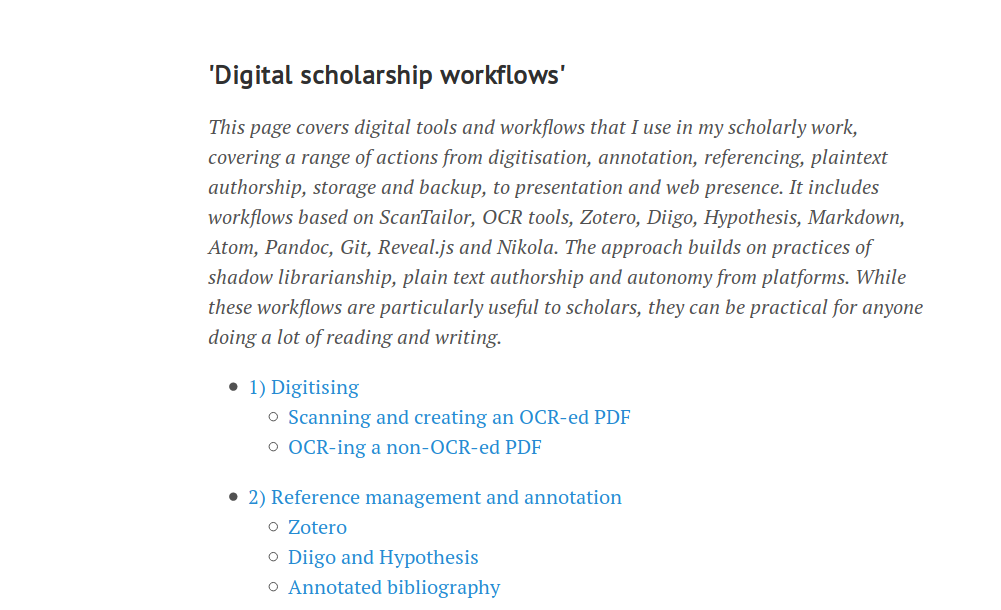
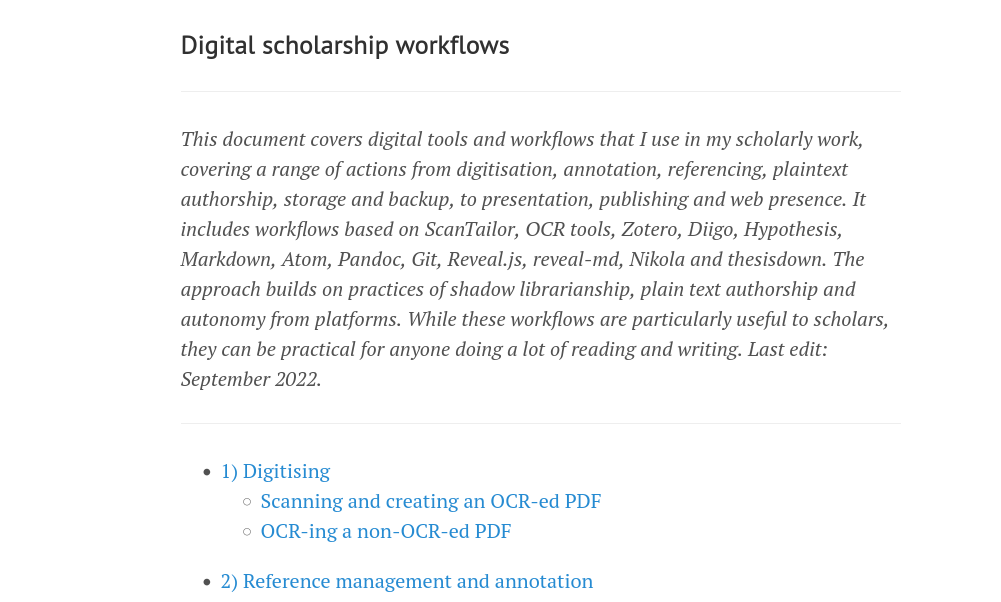
sub, 26.11.2022.  11:54:15 CET

diff --git a/en/workflows/index.html b/en/workflows/index.html
@@ -2,9 +2,9 @@
 <html prefix="" lang="en">
 <head>
 <meta charset="utf-8">
-<meta name="description" content="Overview of digital tools and workflows I use in my scholarly work, covering a range of actions from digitisation, annotation, referencing, plaintext authorship, storage and backup, to presentation and web presence. It includes workflows based on ScanTailor, OCR tools, Zotero, Diigo, Hypothesis, Markdown, Atom, Pandoc, Git, Reveal.js, reveal-md and Nikola.">
+<meta name="description" content="Overview of digital tools and workflows I use in my scholarly work, covering a range of actions from digitisation, annotation, referencing, plaintext authorship, storage and backup, to presentation and web presence. It includes workflows based on ScanTailor, OCR tools, Zotero, Diigo, Hypothesis, Markdown, Atom, Pandoc, Git, Reveal.js, reveal-md, Nikola and thesisdown.">
 <meta name="viewport" content="width=device-width">
-<title>'Digital scholarship workflows' | Tomislav Medak</title>
+<title>Digital scholarship workflows | Tomislav Medak</title>
 <link href="../../assets/css/all.css" rel="stylesheet" type="text/css">
 <link rel="stylesheet" href="//fonts.googleapis.com/css?family=PT+Serif:400,400italic,700%7CPT+Sans:400">
 <link rel="alternate" type="application/rss+xml" title="RSS" href="../../rss.xml">
@@ -12,7 +12,7 @@
 <link rel="icon" href="../../favicon.ico" sizes="96x96">
 <!--[if lt IE 9]><script src="../../assets/js/html5.js"></script><![endif]--><meta name="author" content="Tomislav Medak">
 <meta property="og:site_name" content="Tomislav Medak">
-<meta property="og:title" content="'Digital scholarship workflows'">
+<meta property="og:title" content="Digital scholarship workflows">
 <meta property="og:url" content="http://tom.medak.click/en/workflows/">
 <meta property="og:description" content="Overview of digital tools and workflows I use in my scholarly work, covering a range of actions from digitisation, annotation, referencing, plaintext authorship, storage and backup, to presentation an">
 <meta property="og:image" content="http://tom.medak.click/images/digital_scholarship.png">
@@ -64,7 +64,7 @@
 
       <div class="container content" id="content">
         
-<article class="post-text storypage" itemscope="itemscope" itemtype="http://schema.org/Article"><header><h1 class="post-title p-name entry-title" itemprop="headline name"><a href="." class="u-url">'Digital scholarship workflows'</a></h1>
+<article class="post-text storypage" itemscope="itemscope" itemtype="http://schema.org/Article"><header><h1 class="post-title p-name entry-title" itemprop="headline name"><a href="." class="u-url">Digital scholarship workflows</a></h1>
 
         
 
@@ -78,13 +78,16 @@
 
 
 <!--
-.. title: 'Digital scholarship workflows'
+.. title: Digital scholarship workflows
 .. slug: workflows
 .. author: Tomislav Medak
 .. date: 2019-07-22 19:52:05 UTC
 .. previewimage: /images/digital_scholarship.png
-.. description: Overview of digital tools and workflows I use in my scholarly work, covering a range of actions from digitisation, annotation, referencing, plaintext authorship, storage and backup, to presentation and web presence. It includes workflows based on ScanTailor, OCR tools, Zotero, Diigo, Hypothesis, Markdown, Atom, Pandoc, Git, Reveal.js, reveal-md and Nikola.
+.. description: Overview of digital tools and workflows I use in my scholarly work, covering a range of actions from digitisation, annotation, referencing, plaintext authorship, storage and backup, to presentation and web presence. It includes workflows based on ScanTailor, OCR tools, Zotero, Diigo, Hypothesis, Markdown, Atom, Pandoc, Git, Reveal.js, reveal-md, Nikola and thesisdown.
 -->
+<hr>
+<p><em>This document covers digital tools and workflows I use in my scholarly work, covering a range of actions from digitisation, annotation, referencing, plaintext authorship, storage and backup, to presentation, publishing and web presence. It includes workflows based on ScanTailor, OCR tools, Zotero, Diigo, Hypothesis, Markdown, Atom, Pandoc, Git, Reveal.js, reveal-md, Nikola and thesisdown. The approach builds on practices of shadow librarianship, plain text authorship and autonomy from platforms. While these workflows are particularly useful to scholars, they can be practical for anyone doing a lot of reading and writing. Last edit: September 2022.</em></p>
+<hr>
 <script type="application/json" class="js-hypothesis-config">
 
 {"showHighlights": false}

diff --git a/en/workflows/index.md b/en/workflows/index.md
@@ -1,14 +1,16 @@
 <!--
-.. title: 'Digital scholarship workflows'
+.. title: Digital scholarship workflows
 .. slug: workflows
 .. author: Tomislav Medak
 .. date: 2019-07-22 19:52:05 UTC
 .. previewimage: /images/digital_scholarship.png
-.. description: Overview of digital tools and workflows I use in my scholarly work, covering a range of actions from digitisation, annotation, referencing, plaintext authorship, storage and backup, to presentation and web presence. It includes workflows based on ScanTailor, OCR tools, Zotero, Diigo, Hypothesis, Markdown, Atom, Pandoc, Git, Reveal.js, reveal-md and Nikola.
+.. description: Overview of digital tools and workflows I use in my scholarly work, covering a range of actions from digitisation, annotation, referencing, plaintext authorship, storage and backup, to presentation and web presence. It includes workflows based on ScanTailor, OCR tools, Zotero, Diigo, Hypothesis, Markdown, Atom, Pandoc, Git, Reveal.js, reveal-md, Nikola and thesisdown.
 -->
 
 ---
-lead: This document covers digital tools and workflows that I use in my scholarly work, covering a range of actions from digitisation, annotation, referencing, plaintext authorship, storage and backup, to presentation, publishing and web presence. It includes workflows based on ScanTailor, OCR tools, Zotero, Diigo, Hypothesis, Markdown, Atom, Pandoc, Git, Reveal.js, reveal-md, Nikola and thesisdown. The approach builds on practices of shadow librarianship, plain text authorship and autonomy from platforms. While these workflows are particularly useful to scholars, they can be practical for anyone doing a lot of reading and writing. Last edit: September 2022.
+
+*This document covers digital tools and workflows I use in my scholarly work, covering a range of actions from digitisation, annotation, referencing, plaintext authorship, storage and backup, to presentation, publishing and web presence. It includes workflows based on ScanTailor, OCR tools, Zotero, Diigo, Hypothesis, Markdown, Atom, Pandoc, Git, Reveal.js, reveal-md, Nikola and thesisdown. The approach builds on practices of shadow librarianship, plain text authorship and autonomy from platforms. While these workflows are particularly useful to scholars, they can be practical for anyone doing a lot of reading and writing. Last edit: September 2022.*
+
 ---
 
 <script type="application/json" class="js-hypothesis-config">
